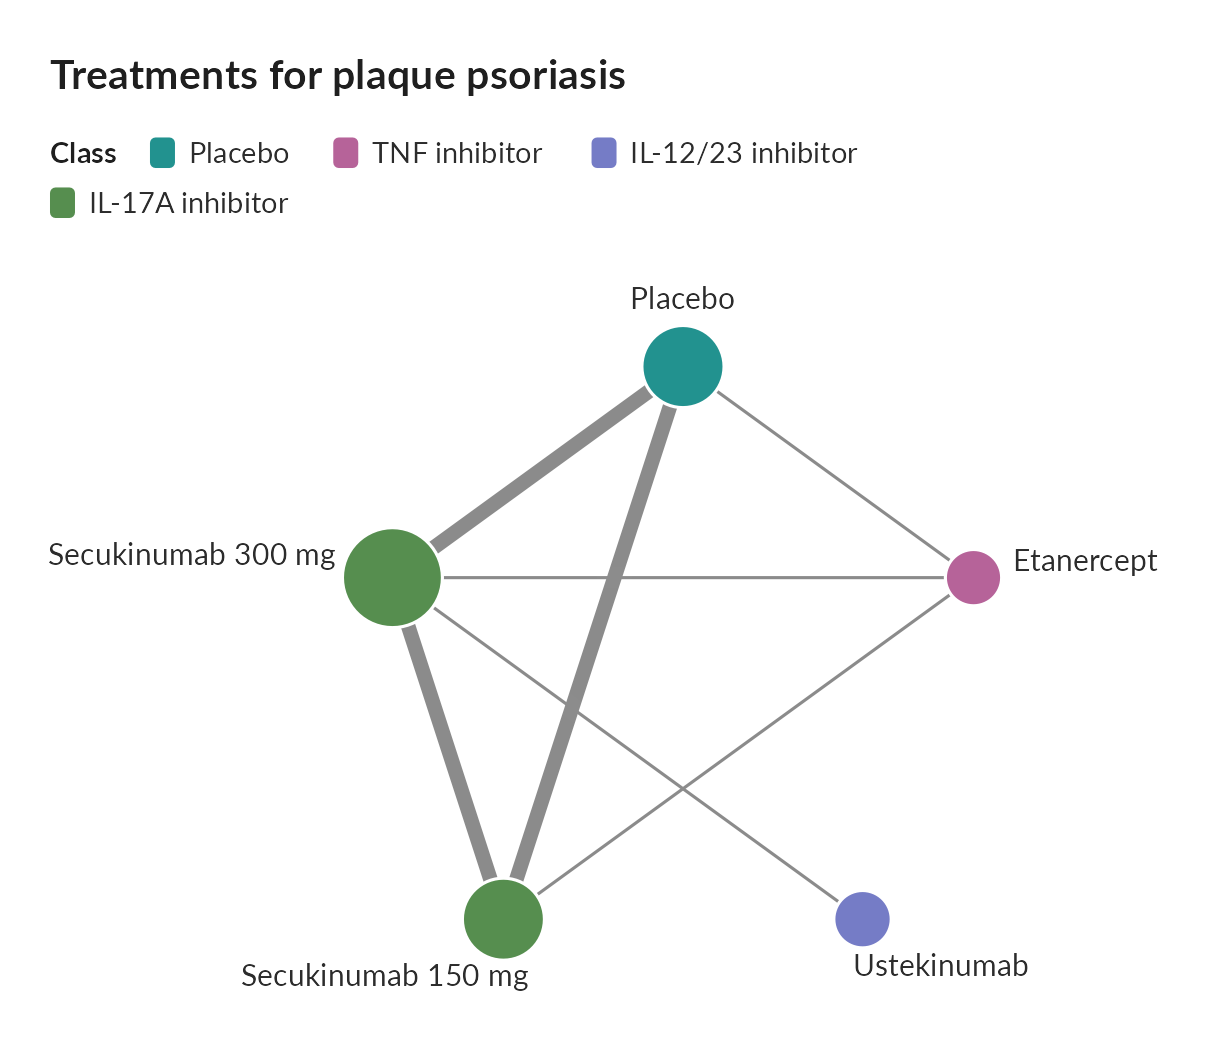
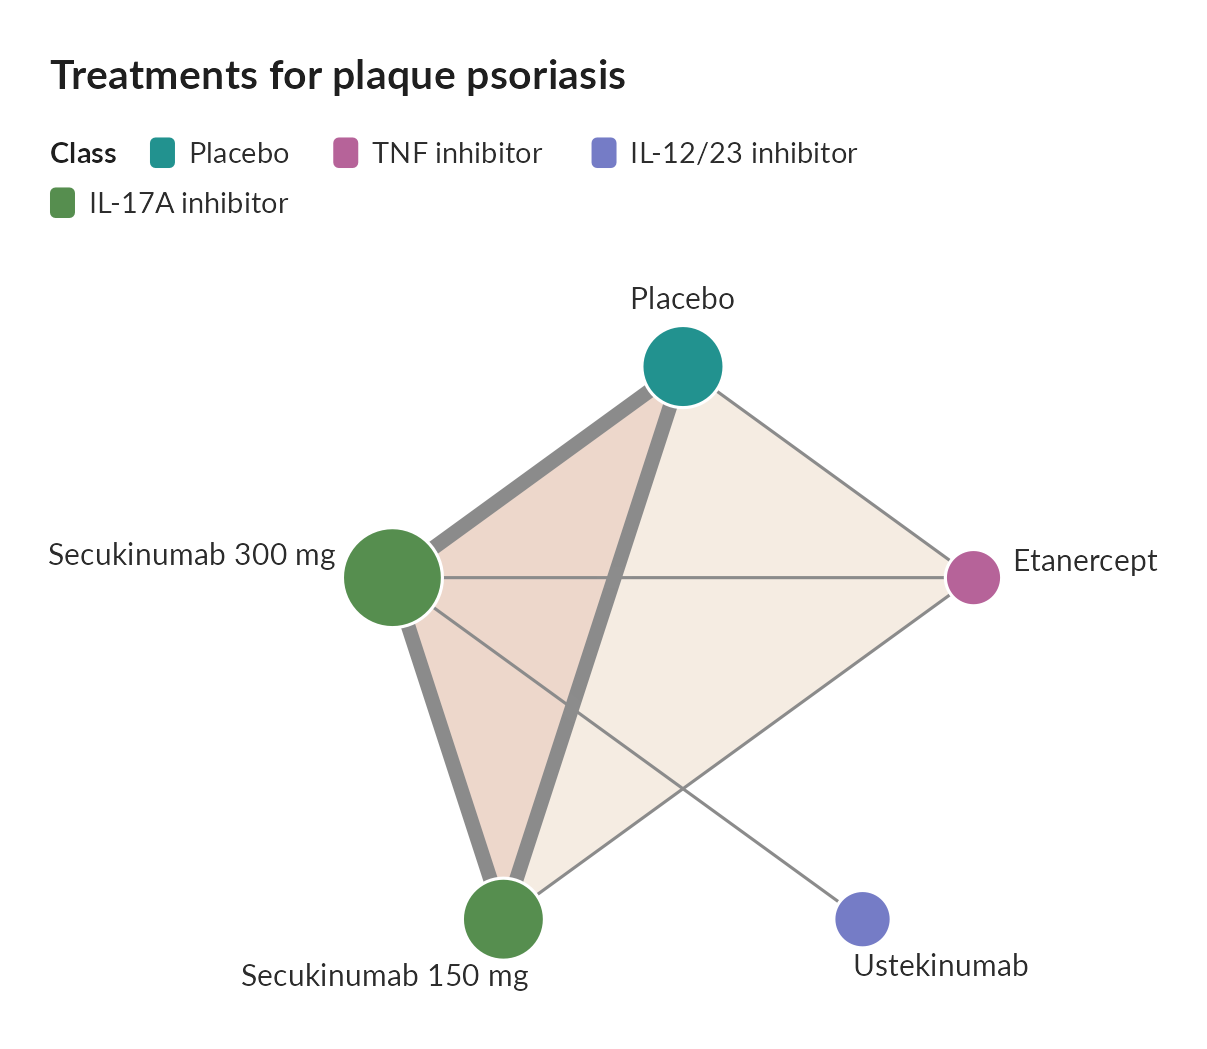
Shade multi-arm studies and allow placing network nodes by hand
ggnma() now draws a translucent polygon joining the treatments of each
study with more than two arms, since lines alone cannot show that three
treatments were compared within one trial. Studies that compare the same
set of treatments share one polygon, which has its own hover card and
click panel with the arms of every study it stands for. The sets are
returned as `multiarm`, and `multiarm = FALSE` leaves the shading out.

`positions` places the nodes from a data frame of treatment, x and y, in
any units; the layout is centered and scaled to fit, keeping its shape.
Labels now point away from the middle of the layout, which matches the
previous placement on the circle.

Changed region(s): [[0.3372, 0.3661, 0.797, 0.8541]]

diff --git a/README.md b/README.md
@@ -162,8 +162,9 @@ R Markdown, Quarto, 'pkgdown' and 'shiny'.
 `ggnma()` draws the network of a network meta-analysis from arm level data,
 one row per study arm. Nodes are treatments and lines join treatments
 compared directly in at least one study; node area follows the number of
-participants and line width the number of studies. Hovering over a node or
-line shows its arms side by side, in the manner of a trial's baseline
+participants, line width the number of studies, and a shaded polygon joins
+the treatments of each multi-arm study. Hovering over a node, line or
+polygon shows its arms side by side, in the manner of a trial's baseline
 table, with the columns chosen in `hover`; clicking opens the full table
 with every other column of the data as a row.
 
@@ -177,8 +178,9 @@ graph_save(net, "network.html")  # a single file for a supplement
 [![A network plot of five treatments for plaque psoriasis](man/figures/README-network.png)](https://choxos.github.io/ggextreme/articles/network-plots.html)
 
 The [interactive version](https://choxos.github.io/ggextreme/articles/network-plots.html)
-is on the package website. Rows of the arm tables are named from each
-column's `label` attribute, text that is the same across a study, such as a
+is on the package website. Nodes sit on a circle or wherever `positions`
+places them. Rows of the arm tables are named from each column's `label`
+attribute, text that is the same across a study, such as a
 reference, is listed once per study, and DOIs and URLs are linked.
 
 ## Bundled data
